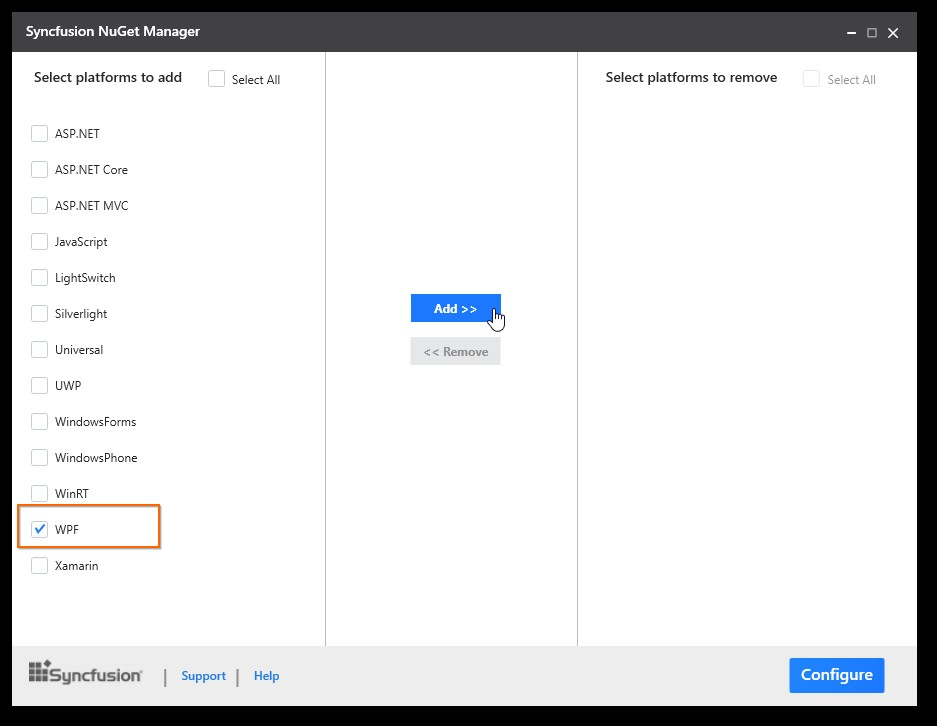
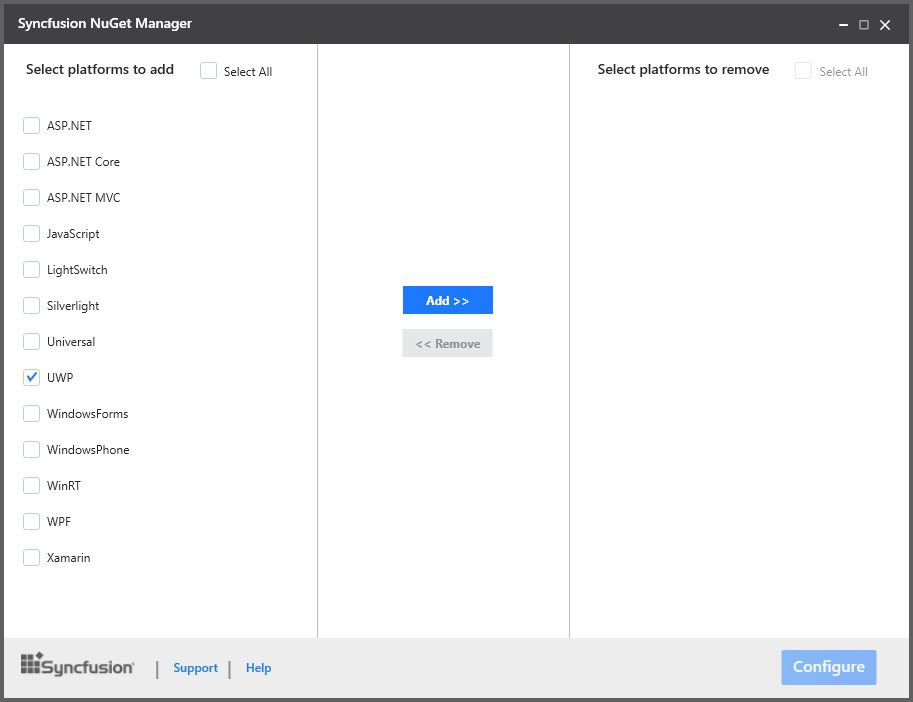
EXT-2153 Modified Syncfusion Nuget Manager Screenshot in NuGet Configuration (UWP)

Changed region(s): [[0.0, 0.0, 1.0, 1.0], [0.4294, 0.3889, 0.552, 0.4487], [0.4294, 0.4786, 0.552, 0.5085]]

diff --git a/uwp/Installation-and-Deployment.md b/uwp/Installation-and-Deployment.md
@@ -40,7 +40,7 @@ The following steps help you configure Syncfusion NuGet Packages with a URL.
 1. **Syncfusion NuGet Manager** is allows you to **add** the Syncfusion NuGet sources (for available platforms) to NuGet Package Manager. Download the [Syncfusion NuGet Manager](http://www.syncfusion.com/downloads/support/directtrac/general/ze/SyncfusionNugetManager-1610952973.zip) utility.
 2. Extract zip file and run the SyncfusionNuGetManager.exe
 3. Syncfusion NuGet Manager Window will be opened.
-4. Select the platform **WPF** (or required platform) from **“Select platforms to add”** (Left side of the window) column and click **Add>>** button. Then click **Configure** button.
+4. Select the platform **UWP** from **“Select platforms to add”** (Left side of the window) column and click **Add>>** button. Then click **Configure** button.
 
    ![](Installation-and-Deployment_images\Syncfusion_NuGet_Manager_img1.jpg)
 
